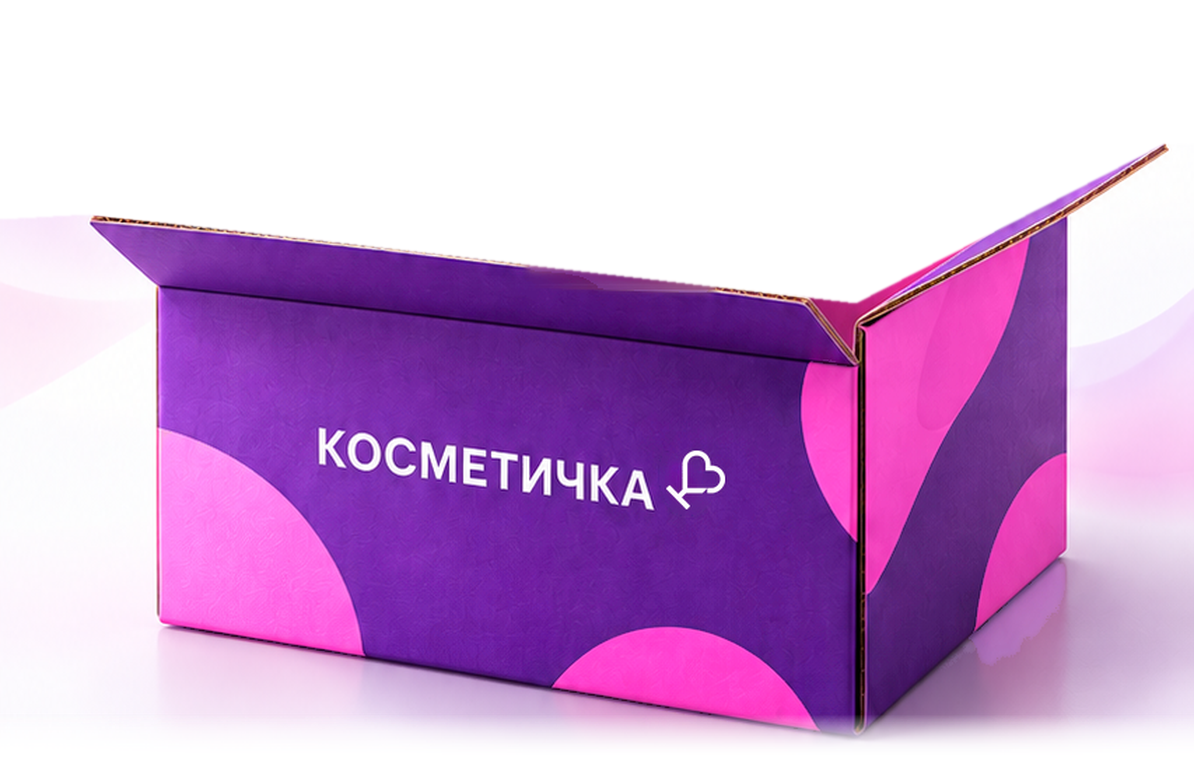
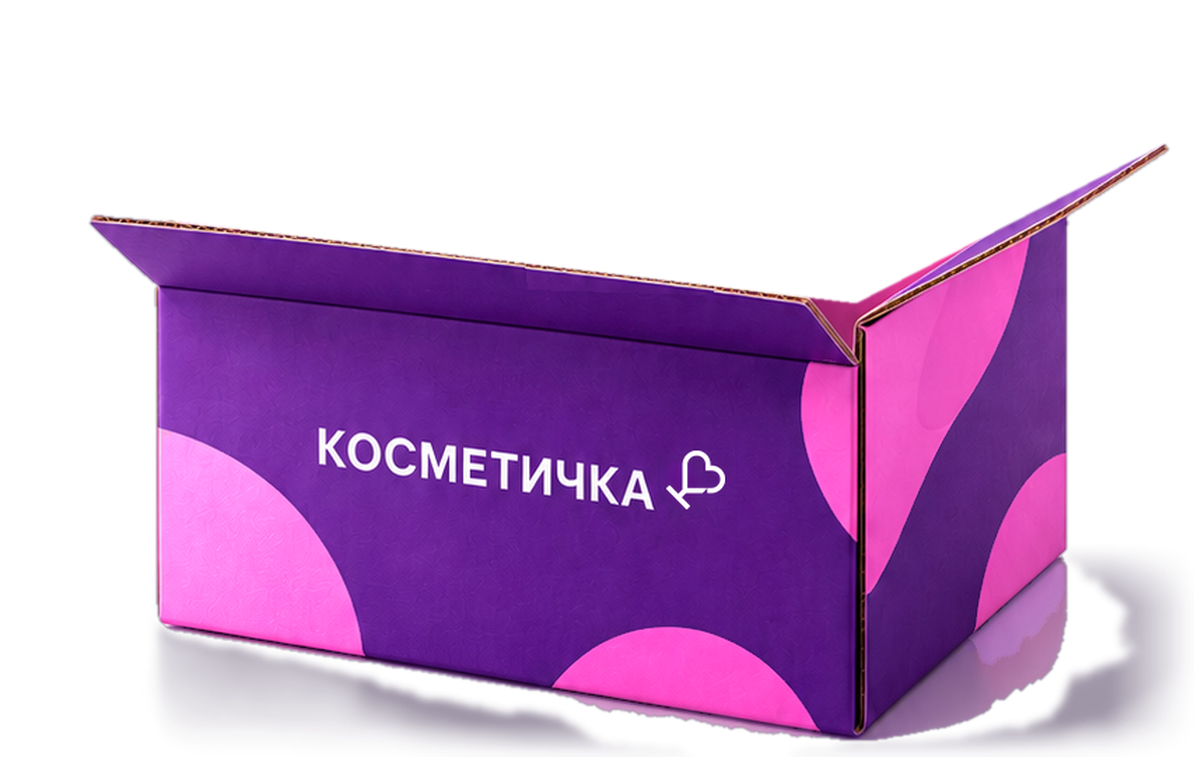
native: фон светлой шапки на всех экранах; коробки без размытия и без фона; товары не обрезаются; плавные переходы сцены; тексты сцены по центру в одну строку
Claude-Session: https://claude.ai/code/session_01BCqKkquPVuj1DEJebychyt

diff --git a/native/src/components/home/HomeScene.tsx b/native/src/components/home/HomeScene.tsx
@@ -34,18 +34,17 @@ type Pose = { cx: number; cy: number; r: number; k: number };
 const PRODUCTS: { src: number; w: number; h: number; a: Pose; b: Pose; c: Pose; drop: [number, number] }[] = [
   // a = over the flat box, b = hovering over the open box, c = inside the box
   { src: require("../../../assets/home/tube.png"), w: 159, h: 360, a: { cx: 514, cy: 865, r: 0, k: 1 }, b: { cx: 478, cy: 930, r: 14, k: 0.85 }, c: { cx: 455, cy: 1270, r: 6, k: 0.8 }, drop: [0.36, 0.44] },
-  { src: require("../../../assets/home/perfume.png"), w: 237, h: 325, a: { cx: 210, cy: 877, r: 0, k: 1 }, b: { cx: 290, cy: 770, r: -12, k: 0.85 }, c: { cx: 330, cy: 1260, r: -4, k: 0.8 }, drop: [0.42, 0.5] },
-  { src: require("../../../assets/home/jar.png"), w: 307, h: 258, a: { cx: 688, cy: 929, r: 0, k: 1 }, b: { cx: 650, cy: 800, r: 12, k: 0.8 }, c: { cx: 560, cy: 1250, r: 4, k: 0.72 }, drop: [0.48, 0.56] },
-  { src: require("../../../assets/home/lipstick.png"), w: 86, h: 278, a: { cx: 367, cy: 909, r: 0, k: 1 }, b: { cx: 520, cy: 740, r: 28, k: 0.8 }, c: { cx: 500, cy: 1250, r: 10, k: 0.8 }, drop: [0.54, 0.62] },
+  { src: require("../../../assets/home/perfume.png"), w: 237, h: 325, a: { cx: 210, cy: 877, r: 0, k: 1 }, b: { cx: 290, cy: 800, r: -12, k: 0.85 }, c: { cx: 330, cy: 1260, r: -4, k: 0.8 }, drop: [0.42, 0.5] },
+  { src: require("../../../assets/home/jar.png"), w: 307, h: 258, a: { cx: 688, cy: 929, r: 0, k: 1 }, b: { cx: 640, cy: 815, r: 12, k: 0.8 }, c: { cx: 560, cy: 1250, r: 4, k: 0.72 }, drop: [0.48, 0.56] },
+  { src: require("../../../assets/home/lipstick.png"), w: 86, h: 278, a: { cx: 367, cy: 909, r: 0, k: 1 }, b: { cx: 515, cy: 790, r: 24, k: 0.8 }, c: { cx: 500, cy: 1250, r: 10, k: 0.8 }, drop: [0.54, 0.62] },
 ];
 
 const TEXTS: { a: string; b: string; bColors: readonly [string, string, ...string[]]; sub: string }[] = [
-  { a: "Всё для вашей", b: "красоты", bColors: ["#6a2bf0", "#b62ee6", "#f0388f"], sub: "Косметика и парфюмерия\nдля себя и бизнеса" },
-  { a: "Собираем", b: "ваш заказ", bColors: ["#d81fa8", "#f0388f"], sub: "Любимые средства — вместе.\nКаждая деталь с заботой." },
-  { a: "Выбирайте", b: "любимое", bColors: ["#6a2bf0", "#b62ee6", "#f0388f"], sub: "Для себя, в подарок\nи для вашего бизнеса" },
+  { a: "Всё для вашей", b: "красоты", bColors: ["#6a2bf0", "#b62ee6", "#f0388f"], sub: "Косметика и парфюмерия для себя и бизнеса" },
+  { a: "Собираем", b: "ваш заказ", bColors: ["#d81fa8", "#f0388f"], sub: "Любимые средства — вместе. Каждая деталь с заботой" },
+  { a: "Выбирайте", b: "любимое", bColors: ["#6a2bf0", "#b62ee6", "#f0388f"], sub: "Для себя, в подарок и для вашего бизнеса" },
 ];
 
-const BG = "#FAF9FD"; // page background = the mockups' background
 
 function num(p: Animated.AnimatedInterpolation<number> | Animated.Value, input: number[], out: number[]) {
   return p.interpolate({ inputRange: input, outputRange: out, extrapolate: "clamp" });
@@ -75,9 +74,9 @@ export function HomeScene({
       Animated.timing(p, { toValue: to, duration, easing, useNativeDriver: true });
     anim.current = Animated.sequence([
       step(0.24, 1600, Easing.linear), // look at the flat box with products
-      step(0.36, 900), // → open box
+      step(0.36, 1500), // → open box
       step(0.62, 2800, Easing.linear), // products dropping in one by one
-      step(0.74, 900), // → closed box (stays as it is)
+      step(0.74, 1500), // → closed box (stays as it is)
     ]);
     anim.current.start();
   }, [p, reduce]);
@@ -103,17 +102,23 @@ export function HomeScene({
 
   // stage visibility: 1 → 2 at 0.24…0.36, 2 → 3 at 0.62…0.74
   const vis = [num(p, [0, 0.24, 0.36], [1, 1, 0]), num(p, [0.24, 0.36, 0.62, 0.74], [0, 1, 1, 0]), num(p, [0.62, 0.74], [0, 1])];
+  const openScale = num(p, [0.24, 0.36, 0.62, 0.74], [0.55, 1, 1, 0.86]);
   const textShift = [num(p, [0.24, 0.36], [0, -12]), num(p, [0.24, 0.36, 0.62, 0.74], [12, 0, 0, -12]), num(p, [0.62, 0.74], [12, 0])];
   const dot = (i: number) =>
     num(p, i === 0 ? [0, 0.3, 0.36] : i === 1 ? [0.3, 0.36, 0.68, 0.74] : [0.68, 0.74, 1], i === 0 ? [1, 1, 0.3] : i === 1 ? [0.3, 1, 1, 0.3] : [0.3, 1, 1]);
 
-  const textH = 170;
+  // title size: the longest title fits the screen width on one line
+  const titleFont = (t: { a: string; b: string }) => {
+    const fs = Math.min(40, (W - 36) / ((t.a.length + 1 + t.b.length) * 0.6));
+    return { fontSize: fs, lineHeight: fs * 1.2 };
+  };
+  const textH = 120;
   const bottomH = 104;
   const artAreaH = viewH - textH - bottomH;
-  const k = Math.min(W / FW, artAreaH / FH); // mockup px → screen px
+  const k = Math.min((W - 24) / FW, artAreaH / FH); // mockup px → screen px
 
   return (
-    <View style={{ height: viewH, backgroundColor: dark ? "#170D25" : BG }}>
+    <View style={{ height: viewH, backgroundColor: dark ? "#170D25" : "transparent" }}>
       <View style={{ height: viewH, overflow: "hidden" }}>
         {/* titles of the three stages */}
         <View style={{ height: textH }}>
@@ -122,13 +127,18 @@ export function HomeScene({
               key={i}
               style={[StyleSheet.absoluteFill, styles.textBox, { opacity: vis[i], transform: [{ translateY: textShift[i] }] }]}
             >
-              <Text style={[styles.h1, { color: dark ? "#fff" : "#170f33" }]} accessibilityRole="header" numberOfLines={1} adjustsFontSizeToFit>
-                {t.a}
+              {/* one centred line across the whole width, no wrapping */}
+              <View style={styles.titleRow} accessible accessibilityRole="header" accessibilityLabel={`${t.a} ${t.b}`}>
+                <Text style={[styles.h1, titleFont(t), { color: dark ? "#fff" : "#170f33" }]} numberOfLines={1}>
+                  {t.a}{" "}
+                </Text>
+                <GradientText style={[styles.h1, titleFont(t)]} colors={t.bColors}>
+                  {t.b}
+                </GradientText>
+              </View>
+              <Text style={[styles.sub, { color: dark ? "#C3AECF" : "#5b5d78" }]} numberOfLines={1} adjustsFontSizeToFit>
+                {t.sub}
               </Text>
-              <GradientText style={styles.h1} colors={t.bColors}>
-                {t.b}
-              </GradientText>
-              <Text style={[styles.sub, { color: dark ? "#C3AECF" : "#5b5d78" }]}>{t.sub}</Text>
             </Animated.View>
           ))}
         </View>
@@ -136,9 +146,9 @@ export function HomeScene({
         {/* the box and the products */}
         <View style={{ height: artAreaH, alignItems: "center", justifyContent: "center" }}>
           <View style={{ width: FW * k, height: FH * k, pointerEvents: "none" }}>
-            <Layer box={BOX.flat} k={k} opacity={vis[0]} />
-            <Layer box={BOX.open} k={k} opacity={vis[1]} />
-            <View style={{ position: "absolute", left: 0, right: 0, top: 0, height: (CLIP - FY) * k, overflow: "hidden" }}>
+            <Layer box={BOX.flat} k={k} opacity={vis[0]} scaleY={num(p, [0.24, 0.36], [1, 1.12])} />
+            <Layer box={BOX.open} k={k} opacity={vis[1]} scaleY={openScale} />
+            <View style={{ position: "absolute", left: -40 * k, right: -40 * k, top: -200 * k, height: (CLIP - FY + 200) * k, overflow: "hidden" }}>
               {PRODUCTS.map((it, i) => {
                 const [d0, d1] = it.drop;
                 const at = (f: (q: Pose) => number) => num(p, [0.24, 0.36, d0, d1], [f(it.a), f(it.b), f(it.b), f(it.c)]);
@@ -147,8 +157,8 @@ export function HomeScene({
                     key={i}
                     style={{
                       position: "absolute",
-                      left: (it.a.cx - it.w / 2) * k,
-                      top: (it.a.cy - it.h / 2 - FY) * k,
+                      left: (it.a.cx - it.w / 2 + 40) * k,
+                      top: (it.a.cy - it.h / 2 - FY + 200) * k,
                       width: it.w * k,
                       height: it.h * k,
                       opacity: num(p, [d1 - 0.01, d1], [1, 0]),
@@ -165,8 +175,8 @@ export function HomeScene({
                 );
               })}
             </View>
-            <Layer box={BOX.front} k={k} opacity={vis[1]} />
-            <Layer box={BOX.closed} k={k} opacity={vis[2]} />
+            <Layer box={BOX.front} k={k} opacity={vis[1]} scaleY={openScale} />
+            <Layer box={BOX.closed} k={k} opacity={vis[2]} scaleY={num(p, [0.62, 0.74], [0.82, 1])} />
           </View>
         </View>
 
@@ -199,18 +209,26 @@ export function HomeScene({
   );
 }
 
-function Layer({ box, k, opacity }: { box: { src: number; x: number; y: number; w: number; h: number }; k: number; opacity: Animated.AnimatedInterpolation<number> }) {
+function Layer({
+  box, k, opacity, scaleY,
+}: { box: { src: number; x: number; y: number; w: number; h: number }; k: number; opacity: Animated.AnimatedInterpolation<number>; scaleY?: Animated.AnimatedInterpolation<number> }) {
   return (
-    <Animated.View style={{ position: "absolute", left: box.x * k, top: (box.y - FY) * k, width: box.w * k, height: box.h * k, opacity }}>
+    <Animated.View
+      style={{
+        position: "absolute", left: box.x * k, top: (box.y - FY) * k, width: box.w * k, height: box.h * k, opacity,
+        transformOrigin: "bottom", transform: scaleY ? [{ scaleY }] : [],
+      }}
+    >
       <Image source={box.src} style={{ width: "100%", height: "100%" }} contentFit="fill" />
     </Animated.View>
   );
 }
 
 const styles = StyleSheet.create({
-  textBox: { paddingHorizontal: 22, paddingTop: 14 },
+  textBox: { paddingHorizontal: 18, paddingTop: 18, alignItems: "center" },
+  titleRow: { flexDirection: "row", justifyContent: "center", alignItems: "flex-end" },
   h1: { fontSize: 44, lineHeight: 50, fontWeight: "800", letterSpacing: -0.8 },
-  sub: { fontSize: 19, lineHeight: 25, marginTop: 6 },
+  sub: { fontSize: 17, lineHeight: 23, marginTop: 8, textAlign: "center", alignSelf: "stretch" },
   bottom: { paddingHorizontal: 36, paddingTop: 6 },
   cta: { height: 60, borderRadius: 30, flexDirection: "row", alignItems: "center", justifyContent: "center", gap: 12, boxShadow: "0 12px 26px rgba(160,40,230,0.32)" },
   ctaText: { color: "#fff", fontSize: 20, fontWeight: "600" },

diff --git a/native/app/(tabs)/index.tsx b/native/app/(tabs)/index.tsx
@@ -70,26 +70,25 @@ export default function Home() {
   return (
     <>
     <Animated.ScrollView
-      style={{ flex: 1, backgroundColor: colors.bg }}
+      style={{ flex: 1, backgroundColor: dark ? colors.bg : "transparent" }}
       contentContainerStyle={{ paddingBottom: bottomSpace }}
       onScroll={Animated.event([{ nativeEvent: { contentOffset: { y: scrollY } } }], { useNativeDriver: true })}
       scrollEventThrottle={16}
     >
-      <View style={[styles.hero, { paddingTop: insets.top + 8, backgroundColor: dark ? "#170D25" : "#FFFFFF" }]}>
-        {/* soft glow: pink on the left, lavender on the right */}
-        <LinearGradient
-          colors={dark ? ["rgba(239,65,154,0.38)", "rgba(23,13,37,0)", "rgba(121,37,214,0.45)"] : ["rgba(239,65,154,0.13)", "rgba(255,255,255,0)", "rgba(155,110,240,0.16)"]}
-          locations={[0, 0.5, 1]}
-          start={{ x: 0, y: 0.6 }}
-          end={{ x: 1, y: 0.4 }}
-          style={[StyleSheet.absoluteFill, { pointerEvents: "none" }]}
-        />
-        <LinearGradient
-          colors={dark ? ["rgba(23,13,37,0)", colors.bg] : ["rgba(255,255,255,0)", colors.bg]}
-          start={{ x: 0, y: 0.55 }}
-          end={{ x: 0, y: 1 }}
-          style={[StyleSheet.absoluteFill, { pointerEvents: "none" }]}
-        />
+      <View style={[styles.hero, { paddingTop: insets.top + 8, backgroundColor: dark ? "#170D25" : "transparent" }]}>
+        {/* dark header keeps its own glow; in the light theme the page backdrop is the header's background */}
+        {dark ? (
+          <>
+            <LinearGradient
+              colors={["rgba(239,65,154,0.38)", "rgba(23,13,37,0)", "rgba(121,37,214,0.45)"]}
+              locations={[0, 0.5, 1]}
+              start={{ x: 0, y: 0.6 }}
+              end={{ x: 1, y: 0.4 }}
+              style={[StyleSheet.absoluteFill, { pointerEvents: "none" }]}
+            />
+            <LinearGradient colors={["rgba(23,13,37,0)", colors.bg]} start={{ x: 0, y: 0.55 }} end={{ x: 0, y: 1 }} style={[StyleSheet.absoluteFill, { pointerEvents: "none" }]} />
+          </>
+        ) : null}
         <View style={styles.heroTop}>
           <View style={[styles.heroSide, { left: 0 }]}>
             <Pressable

diff --git a/native/src/components/PageBackdrop.tsx b/native/src/components/PageBackdrop.tsx
@@ -1,0 +1,33 @@
+import { StyleSheet, View } from "react-native";
+import { LinearGradient } from "expo-linear-gradient";
+import { useTheme } from "../theme";
+
+/**
+ * Page background of every screen — the same as the light home header: white with a soft pink
+ * glow on the left and lavender on the right. The dark theme keeps its plain plum background.
+ */
+export function PageBackdrop() {
+  const dark = useTheme((s) => s.mode) === "dark";
+  if (dark) return <View style={[StyleSheet.absoluteFill, { backgroundColor: "#170D25", pointerEvents: "none" }]} />;
+  return (
+    <View style={[StyleSheet.absoluteFill, { backgroundColor: "#FFFFFF", pointerEvents: "none" }]}>
+      <LinearGradient
+        colors={["rgba(239,65,154,0.13)", "rgba(255,255,255,0)", "rgba(155,110,240,0.16)"]}
+        locations={[0, 0.5, 1]}
+        start={{ x: 0, y: 0.6 }}
+        end={{ x: 1, y: 0.4 }}
+        style={StyleSheet.absoluteFill}
+      />
+    </View>
+  );
+}
+
+/** Wraps each screen of a navigator so the backdrop sits under the screen's content. */
+export function PageLayout({ children }: { children: React.ReactNode }) {
+  return (
+    <View style={{ flex: 1 }}>
+      <PageBackdrop />
+      {children}
+    </View>
+  );
+}

diff --git a/native/app/filters.tsx b/native/app/filters.tsx
@@ -3,7 +3,7 @@ import { Pressable, ScrollView, StyleSheet, Switch, Text, TextInput, View } from
 import { router } from "expo-router";
 import { Ionicons } from "@expo/vector-icons";
 import { useSafeAreaInsets } from "react-native-safe-area-context";
-import { colors, radius, themed } from "@/theme";
+import { colors, radius, themed, useTheme } from "@/theme";
 import { SORT_LABELS, useCatalog, type Quick, type Sort } from "@/store/catalog";
 import { Button, tap } from "@/components/ui";
 import { CategoryDrawer } from "@/components/CategoryDrawer";
@@ -38,7 +38,7 @@ export default function Filters() {
   };
 
   return (
-    <View style={{ flex: 1, backgroundColor: colors.bg }}>
+    <View style={{ flex: 1, backgroundColor: useTheme.getState().mode === "dark" ? colors.bg : "transparent" }}>
       <ScrollView contentContainerStyle={{ padding: 16, paddingBottom: 120 }} keyboardShouldPersistTaps="handled">
         <Text style={styles.h}>Категория</Text>
         <View style={styles.box}>

diff --git a/native/app/_layout.tsx b/native/app/_layout.tsx
@@ -10,6 +10,7 @@ import { SafeAreaProvider } from "react-native-safe-area-context";
 import { useFonts, Inter_400Regular, Inter_500Medium, Inter_600SemiBold, Inter_700Bold } from "@expo-google-fonts/inter";
 import { useAuth } from "@/store/auth";
 import { colors, useTheme } from "@/theme";
+import { PageLayout } from "@/components/PageBackdrop";
 
 // In Expo Go don't hold the splash: Expo Go shows its own developer-menu intro right after
 // the app loads, and a splash kept on screen at that moment pushes that intro under the app
@@ -76,6 +77,7 @@ function AppRoot() {
       <StatusBar style={colors.statusBar} />
       <Stack
         key={mode}
+        screenLayout={({ children }) => <PageLayout>{children}</PageLayout>}
         screenOptions={{
           headerTintColor: colors.text,
           headerTitleStyle: { fontWeight: "800" },

diff --git a/native/app/(tabs)/_layout.tsx b/native/app/(tabs)/_layout.tsx
@@ -5,6 +5,7 @@ import { colors } from "@/theme";
 import { PageTitle } from "@/components/PageTitle";
 import { TabBar } from "@/components/TabBar";
 import { disabled } from "@/debugFlags";
+import { PageLayout } from "@/components/PageBackdrop";
 
 type IconName = keyof typeof Ionicons.glyphMap;
 
@@ -19,6 +20,7 @@ export default function TabsLayout() {
 
   return (
     <Tabs
+      screenLayout={({ children }) => <PageLayout>{children}</PageLayout>}
       tabBar={disabled("tabbar") ? undefined : (props) => <TabBar {...props} />}
       screenOptions={{
         tabBarActiveTintColor: colors.pink,

diff --git a/native/app/info.tsx b/native/app/info.tsx
@@ -41,7 +41,7 @@ export default function Info() {
   const sep = { borderTopWidth: StyleSheet.hairlineWidth, borderTopColor: c.separator };
 
   return (
-    <View style={{ flex: 1, backgroundColor: dark ? "#170D25" : "#F7F5FB" }}>
+    <View style={{ flex: 1, backgroundColor: dark ? "#170D25" : "transparent" }}>
       <Stack.Screen options={{ headerShown: false }} />
       <ScrollView contentContainerStyle={{ paddingTop: insets.top, paddingHorizontal: 16, paddingBottom: insets.bottom + 28 }} showsVerticalScrollIndicator={false}>
         <View style={styles.wrap}>

diff --git a/native/src/components/iosui/LargeTitleScreen.tsx b/native/src/components/iosui/LargeTitleScreen.tsx
@@ -20,7 +20,7 @@ export function LargeTitleScreen({ title, left, children }: { title: string; lef
   const bigScale = y.interpolate({ inputRange: [-120, 0], outputRange: [1.12, 1], extrapolate: "clamp" });
 
   return (
-    <View style={{ flex: 1, backgroundColor: c.bg }}>
+    <View style={{ flex: 1, backgroundColor: c.blurTint === "dark" ? c.bg : "transparent" }}>
       <Animated.ScrollView
         contentContainerStyle={{ paddingTop: barH, paddingBottom: bottomSpace }}
         scrollEventThrottle={16}

diff --git a/native/app/register.tsx b/native/app/register.tsx
@@ -179,7 +179,7 @@ export default function Register() {
   const panel = [styles.panel, { backgroundColor: c.cell }, !dark && styles.shadow];
 
   return (
-    <KeyboardAvoidingView style={{ flex: 1, backgroundColor: dark ? "#170D25" : "#F8F7FC" }} behavior="padding">
+    <KeyboardAvoidingView style={{ flex: 1, backgroundColor: dark ? "#170D25" : "transparent" }} behavior="padding">
       <Stack.Screen options={{ headerShown: false }} />
       <AuthBackdrop />
       <ScrollView

diff --git a/native/app/login.tsx b/native/app/login.tsx
@@ -62,7 +62,7 @@ export default function Login() {
   const panel = [styles.panel, { backgroundColor: c.cell }, !dark && styles.shadow];
 
   return (
-    <KeyboardAvoidingView style={{ flex: 1, backgroundColor: dark ? "#170D25" : "#F8F7FC" }} behavior="padding">
+    <KeyboardAvoidingView style={{ flex: 1, backgroundColor: dark ? "#170D25" : "transparent" }} behavior="padding">
       <Stack.Screen options={{ headerShown: false }} />
       <AuthBackdrop />
       <ScrollView

diff --git a/native/app/(tabs)/cart.tsx b/native/app/(tabs)/cart.tsx
@@ -87,7 +87,7 @@ export default function Cart() {
   const toBig = amountUntilBigWholesale(items, customer);
   const count = items.reduce((s, i) => s + i.quantity, 0);
 
-  const bg = dark ? "#170D25" : "#F7F7FA";
+  const bg = dark ? "#170D25" : "transparent";
   const card = [styles.card, { backgroundColor: c.cell }, !dark && styles.shadow];
   const soft = dark ? "#352044" : "#F2F2F7";
   const pinkSoft = dark ? "rgba(232,44,135,0.16)" : "#FCEFF7";

diff --git a/native/app/(tabs)/catalog.tsx b/native/app/(tabs)/catalog.tsx
@@ -232,7 +232,7 @@ export default function Catalog() {
   );
 
   return (
-    <View style={{ flex: 1, backgroundColor: c.blurTint === "dark" ? "#170D25" : "#F7F7FA", paddingTop: insets.top }}>
+    <View style={{ flex: 1, backgroundColor: c.blurTint === "dark" ? "#170D25" : "transparent", paddingTop: insets.top }}>
       {error && products.length === 0 ? (
         <>
           <View style={{ paddingHorizontal: 11 }}>{header}</View>
